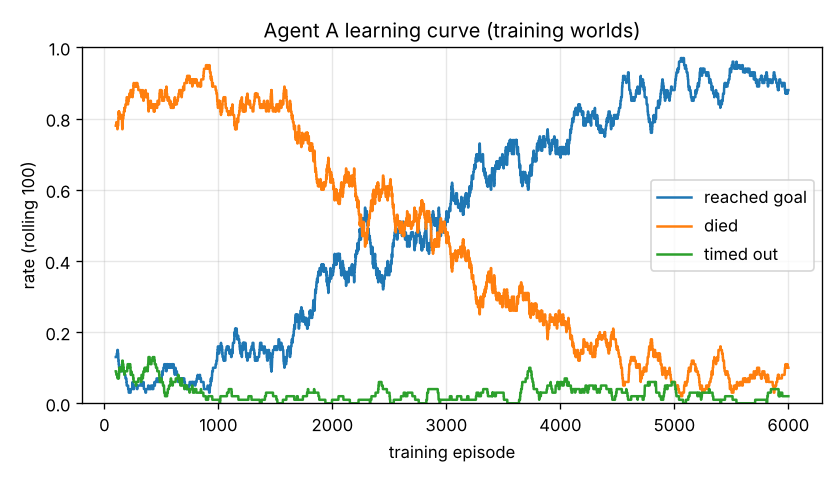
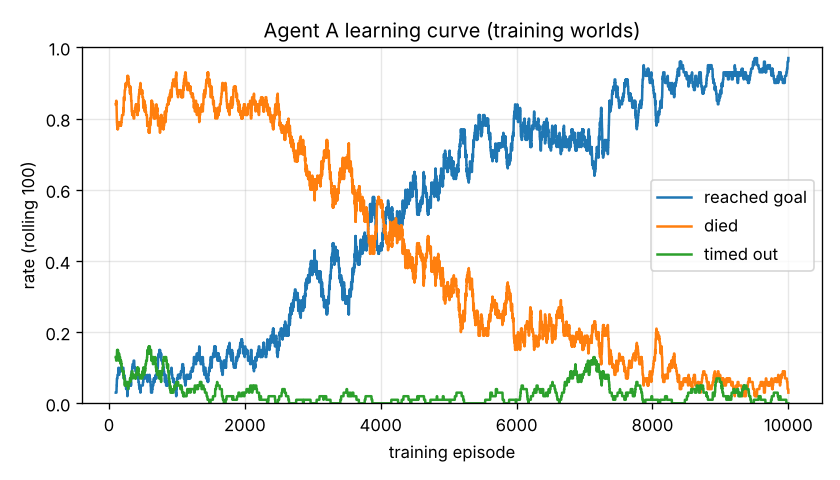
exp: re-run Level 1 baselines with stuck sense on; update every number
Learner 94.1% success in training rooms (was 90.7% from one lucky run).
New hot tiles: no help and memory of past killers both 57.5% success /
42.4% deaths; perfect knowledge 97.8% success, 0% deaths, 2.2% stuck
(was 7.4%). Difficulty sweep: 13.8% -> 74.7% deaths for 1 -> 6 hot tiles.
Figures, tables, README, Lab, paper, plain-language write-up, tracker and
plan updated; older numbers kept as history in the tracker.

diff --git a/lab.py b/lab.py
@@ -126,9 +126,9 @@ a painting of a fire). Can the rules protect it without making it afraid of the 
 | Got stuck | Ran out of time (100 steps) without reaching the goal |
 | Seed | A fixed random setting, so a test can be repeated exactly |
 
-**Measured so far** (10 seeds × 100 episodes, rooms with new dangers): no help → 41% die ·
-memory of past killers → 41% die (no help on new tiles) · perfect knowledge → 0% die,
-93% reach the goal. AI results: pending.
+**Measured so far** (10 seeds × 100 episodes, rooms with new dangers): no help → 42% die ·
+memory of past killers → 42% die (no help on new tiles) · perfect knowledge → 0% die,
+98% reach the goal. AI results: pending.
 
 **How to use:** set the knobs on the left → tab 1 *Train* → tab 2 *Watch* an episode →
 tab 3 *Compare* shields → tab 4 *Sweep* a knob. LLM shields use **Groq** (free; needs `GROQ_API_KEY`); the

diff --git a/conclusion/level_1/paper.md b/conclusion/level_1/paper.md
@@ -10,10 +10,10 @@ they have not met. We study whether a language model, reading a reinforcement-le
 agent's sparse failure log, can write rules that protect a *novice* agent against
 **held-out** hazards while sparing **look-alike decoys**. In a MiniGrid room with a
 natural-language tile layer, a tabular Q-learning agent trained on three hot tiles
-reaches the goal in 90.7% of training episodes but dies in 41.1% [39.0, 43.6] of test
+reaches the goal in 94.1% of training episodes but dies in 42.4% [39.4, 45.3] of test
 episodes containing only unseen hot tiles. An exact-match lookup of past killers gives
 no protection (identical to no shield), while an oracle shield removes all deaths and
-raises success from 57.4% to 92.6%. **[PENDING]** Results for embedding retrieval and
+raises success from 57.5% to 97.8%. **[PENDING]** Results for embedding retrieval and
 for LLM shields with and without experience.
 
 ## 1. Introduction
@@ -30,7 +30,9 @@ Contributions of this level:
 1. A text-layer gridworld with hidden danger categories, held-out hazards and decoys,
    in which a lookup of past failures provably cannot succeed.
 2. A paired evaluation protocol comparing six shields from "none" to "oracle".
-3. Baselines bounding the achievable improvement (57.4% → 92.6% success).
+3. Baselines bounding the achievable improvement (57.5% → 97.8% success).
+5. A stuck-sense signal that makes the learner reliable across training runs
+   (getting stuck with a perfect shield: 23.4% ± 15.9% → 6.0% ± 3.2% over 5 training runs).
 4. **[PENDING]** The measured position of LLM- and embedding-based shields within that bound.
 
 ## 2. Related Work
@@ -64,10 +66,11 @@ Observation: the names of the front, left and right cells and a goal compass
 
 ### 3.2 Learner (Agent A)
 
-Tabular Q-learning (α = 0.2, γ = 0.95, ε linearly 1.0 → 0.05 over 70% of 6 000
+Tabular Q-learning (α = 0.2, γ = 0.95, ε linearly 1.0 → 0.05 over 70% of 10 000
 episodes). State = (front cell name, kind of left/right cell ∈ {wall, open, tile}, goal
-direction, previous action). The previous action removes left–right oscillation
-(without it ~40% of episodes time out).
+direction, previous action, stuck flag). The previous action removes left–right
+oscillation (without it ~40% of episodes time out); the stuck flag ("no change of cell
+for 3 steps") makes training reliable across seeds (see `results/level_1/tables/anti_stuck_5_training_seeds.md`).
 
 ### 3.3 Rule synthesis (sparse reflection)
 
@@ -95,23 +98,23 @@ encounters of decoys).
 
 ## 5. Results
 
-**Learner.** 90.7% [88.6, 92.6] success and 0.4% [0.0, 0.9] deaths in training worlds
+**Learner.** 94.1% [92.7, 95.6] success and 0.7% [0.3, 1.1] deaths in training worlds
 (`python -m research train`).
 
 **Novice in test worlds** (`python -m research evaluate`):
 
 | Shield | Success | Death | Hazards blocked | Decoys avoided |
 |---|---|---|---|---|
-| S0 none | 57.4% [55.1, 59.4] | 41.1% [39.0, 43.6] | 0% | 0% |
-| S1 lookup | 57.4% [55.1, 59.4] | 41.1% [39.0, 43.6] | 0% | 0% |
+| S0 none | 57.5% [54.5, 60.5] | 42.4% [39.4, 45.3] | 0% | 0% |
+| S1 lookup | 57.5% [54.5, 60.5] | 42.4% [39.4, 45.3] | 0% | 0% |
 | S2 embedding | **[PENDING]** | | | |
 | S3 LLM prior | **[PENDING]** | | | |
 | S4 LLM + experience | **[PENDING]** | | | |
-| S6 oracle | 92.6% [90.9, 94.4] | 0.0% [0.0, 0.0] | 100% | 0% |
+| S6 oracle | 97.8% [97.0, 98.6] | 0.0% [0.0, 0.0] | 100% | 0% |
 
 **Difficulty sweep** (`python -m research sweep --knob hazard_count --values 1,2,4,6`):
-deaths without a shield rise 15.9% → 28.8% → 54.5% → 74.6% for 1, 2, 4, 6 hazards; the
-oracle remains at 0% with success 98.7% → 74.3%.
+deaths without a shield rise 13.8% → 30.2% → 53.9% → 74.7% for 1, 2, 4, 6 hazards; the
+oracle remains at 0% with success 99.9% → 80.4%.
 
 | Hypothesis | Status |
 |---|---|
@@ -124,8 +127,8 @@ oracle remains at 0% with success 98.7% → 74.3%.
 
 The lookup result is by construction but important: it shows that the evaluation
 cannot be passed by memorising failures, which the v0 prototype's design could not rule
-out. The oracle gap (35 points of success, 41 points of deaths) is the room available to
-any semantic shield. Even a perfect shield leaves 7.4% time-outs, because the learner's
+out. The oracle gap (40 points of success, 42 points of deaths) is the room available to
+any semantic shield. Even a perfect shield leaves 2.2% time-outs, because the learner's
 policy was never trained with masked actions; a shield-aware learner is future work.
 
 ## 7. Limitations

diff --git a/conclusion/level_1/explained.md b/conclusion/level_1/explained.md
@@ -60,17 +60,17 @@ going to earn its place, it must handle things the agent has **not** experienced
 
 ## 5. What happened?
 
-**The learner learned.** After 6 000 training episodes it reaches the goal in 90.7% of
-training rooms and dies in only 0.4%. It learned to avoid red lava and hot coals.
+**The learner learned.** After 10 000 training episodes it reaches the goal in 94.1% of
+training rooms and dies in only 0.7%. It learned to avoid red lava and hot coals.
 
 **But it walks into new hot tiles.** In test rooms with never-seen hot tiles it dies in
-41.1% of episodes.
+42.4% of episodes.
 
 | Shield | Success | Deaths | Decoys wrongly avoided |
 |---|---|---|---|
-| S0 none | 57.4% | 41.1% | 0% |
-| S1 lookup | 57.4% | 41.1% | 0% |
-| S6 oracle | 92.6% | 0.0% | 0% |
+| S0 · No help | 57.5% | 42.4% | 0% |
+| S1 · Memory of past killers | 57.5% | 42.4% | 0% |
+| S6 · Perfect knowledge (cheat) | 97.8% | 0.0% | 0% |
 | S2 embedding | *not run yet* | | |
 | S3 LLM prior | *not run yet* | | |
 | S4 LLM + experience | *not run yet* | | |
@@ -78,11 +78,11 @@ training rooms and dies in only 0.4%. It learned to avoid red lava and hot coals
 | What we expected | What happened | Why |
 |---|---|---|
 | L1-H1: lookup won't help on new tiles | **Confirmed.** Lookup = no shield, to the decimal | It only knows tiles that killed the learner, and none of those appear in tests |
-| A good shield would help a lot | **Confirmed.** The oracle removes every death and adds 35 points of success | So the size of the prize for S3/S4 is known: somewhere between 57% and 93% success |
+| A good shield would help a lot | **Confirmed.** Perfect knowledge removes every death and adds 40 points of success | So the size of the prize for S3/S4 is known: somewhere between 57% and 98% success |
 | L1-H2 to H4 (about the LLM and embeddings) | **Not measured yet** | Needs the free Groq key, run on the Hugging Face Space or a laptop |
 
-**Harder rooms:** with more hot tiles, deaths without a shield climb from 16% (1 hot tile)
-to 75% (6 hot tiles); the oracle stays at 0% throughout.
+**Harder rooms:** with more hot tiles, deaths without a shield climb from 14% (1 hot tile)
+to 75% (6 hot tiles); with perfect knowledge it stays at 0% throughout.
 
 ## 6. What surprised us / what went wrong
 
@@ -93,7 +93,14 @@ to 75% (6 hot tiles); the oracle stays at 0% throughout.
 - **Lookup knew only 2 of 3 training hazards.** With a budget of 5 deaths, the learner
   happened to die on lava and coals but never on a campfire. Even "seen" knowledge is
   partial — a realistic situation for the LLM to deal with.
-- **A blocked agent can still get stuck.** With the oracle, 7.4% of episodes time out:
+- **The robot got stuck turning on the spot.** You noticed it in the Lab. With perfect
+  knowledge it timed out in 7.4% of episodes, and over 5 separate training runs the
+  average was even worse (23%). Giving it a "stuck sense" (I haven't moved for 3 steps)
+  fixed it: 6% on average, 2.2% in the main run. Your idea of an extra cost for walking
+  over its own path did not help on its own.
+- **One training run can be lucky.** The first learner scored 90.7%, but the average of five
+  runs was 71%. That is why results must be checked over several training runs.
+- **(Earlier note)** With the oracle, 7.4% of episodes timed out:
   when the way forward is blocked, the simple learner sometimes circles.
 - **Network limits.** This cloud session cannot reach Groq, OpenRouter or Hugging Face.
   So the LLM runs (free Groq, Llama 3.3 70B) happen on the Hugging Face Space or a
@@ -111,7 +118,7 @@ to 75% (6 hot tiles); the oracle stays at 0% throughout.
 | Shield | Filter that forbids unsafe moves | blocks "move forward" into lava |
 | Oracle | A cheating method that shows the best possible score | S6 |
 | Paired comparison | Every method gets the exact same test rooms and luck | all shields use the same seeds |
-| Confidence interval | Range where the true value probably is | 41.1% [39.0%, 43.6%] |
+| Confidence interval | Range where the true value probably is | 42.4% [39.4%, 45.3%] |
 | Sparse reflection | Calling the LLM rarely (once, after 5 deaths) | one reflection call per run |
 
 ## 8. What this means for the next level

diff --git a/results/level_1/tables/novice_non_llm_shields.md b/results/level_1/tables/novice_non_llm_shields.md
@@ -1,44 +1,36 @@
-# Novice in test worlds: shields that need no LLM (S0, S1, S6)
+# New robot in test worlds: shields that need no AI (S0, S1, S6)
 
-Same trained Agent A as the baseline; test worlds contain only never-seen hot tiles
-(molten rock, burning log pile, white-hot metal plate) and decoys. 10 seeds × 100
-episodes per shield, paired (same layouts and random draws for every shield);
-95% bootstrap CI over seeds.
+Same trained Agent A as the baseline (10 000 episodes, stuck sense on). Test worlds contain
+only NEW hot tiles (molten rock, burning log pile, white-hot metal plate) and harmless
+look-alikes. 10 seeds × 100 episodes per shield, paired (same layouts and random draws
+for every shield); 95% bootstrap CI over seeds.
 
-| Shield | Success | Death (all unseen hot tiles) | Hazards blocked | Decoys wrongly avoided |
-|---|---|---|---|---|
-| S0 none | 57.4% [55.1%, 59.4%] | 41.1% [39.0%, 43.6%] | 0% | 0% |
-| S1 lookup | 57.4% [55.1%, 59.4%] | 41.1% [39.0%, 43.6%] | 0% | 0% |
-| S6 oracle | 92.6% [90.9%, 94.4%] | 0.0% [0.0%, 0.0%] | 100% | 0% |
+| Shield | Reached goal | Died (on a new hot tile) | Got stuck (ran out of time) | Dangers blocked | False alarms (harmless tiles avoided) |
+|---|---|---|---|---|---|
+| S0 · No help | 57.5% [54.5%, 60.5%] | 42.4% [39.4%, 45.3%] | 0.1% [0.0%, 0.3%] | 0% | 0% |
+| S1 · Memory of past killers | 57.5% [54.5%, 60.5%] | 42.4% [39.4%, 45.3%] | 0.1% [0.0%, 0.3%] | 0% | 0% |
+| S6 · Perfect knowledge (cheat) | 97.8% [97.0%, 98.6%] | 0.0% [0.0%, 0.0%] | 2.2% [1.4%, 3.0%] | 100% | 0% |
 
-- **S1 lookup = S0 none, exactly.** Remembering the exact tiles that killed the learner
-  gives zero protection on tiles it never met (hypothesis L1-H1: supported).
-- **S6 oracle** removes every death and lifts success from 57% to 93%: a shield with
-  correct judgements is worth ~35 points of success. The LLM shields (S3, S4) will be
-  placed between these two rows once they are run.
-- No shield here avoided a decoy; decoy false-avoidance becomes meaningful for S2–S4.
-
-Reproduce:
+- **Memory of past killers (S1) = No help (S0), exactly.** Remembering the exact tiles that
+  killed the learner gives zero protection on tiles it never met (hypothesis L1-H1: supported).
+- **Perfect knowledge (S6)** removes every death and lifts reaching the goal from 57.5% to
+  97.8%: a shield with correct judgement is worth ~40 points. The AI shields (S3, S4) will
+  land between these rows.
+- Nobody avoided a look-alike here; false alarms become meaningful for S2–S4.
 
 ```bash
 python -m research evaluate --shields none,lookup,oracle
 ```
 
-## Difficulty sweep (hazards per room)
+## Difficulty sweep (hot tiles per room)
 
-| hazards per room | S0 none death | S1 lookup death | S6 oracle death | S0 success | S6 success |
+| Hot tiles per room | No help: died | Memory of past killers: died | Perfect knowledge: died | No help: reached goal | Perfect knowledge: reached goal |
 |---|---|---|---|---|---|
-| 1 | 15.9% | 15.9% | 0.0% | 83.2% | 98.7% |
-| 2 | 28.8% | 28.8% | 0.0% | 69.9% | 96.5% |
-| 4 | 54.5% | 54.5% | 0.0% | 44.3% | 87.2% |
-| 6 | 74.6% | 74.6% | 0.0% | 24.3% | 74.3% |
-
-Deaths without a shield grow with the number of hot tiles; the oracle stays at 0%.
+| 1 | 13.8% | 13.8% | 0.0% | 86.1% | 99.9% |
+| 2 | 30.2% | 30.2% | 0.0% | 69.7% | 99.4% |
+| 4 | 53.9% | 53.9% | 0.0% | 45.7% | 93.4% |
+| 6 | 74.7% | 74.7% | 0.0% | 24.9% | 80.4% |
 
 ```bash
 python -m research sweep --knob hazard_count --values 1,2,4,6 --shields none,lookup,oracle
 ```
-
-Note: the `train` command's own evaluation (`baseline_no_shield.md`, 39.9% deaths) used the
-training RNG for tie-breaks; `evaluate` resets it so shields are compared on identical draws
-(41.1%). The two confidence intervals overlap.

diff --git a/results/level_1/tables/baseline_no_shield.md b/results/level_1/tables/baseline_no_shield.md
@@ -1,21 +1,25 @@
 # Baseline: Agent A with no shield (S0)
 
-Agent A trained by tabular Q-learning for 6 000 episodes in training worlds, then
-evaluated greedily over 10 seeds × 100 fresh layouts per split (95% bootstrap CI over seeds).
+Agent A trained by tabular Q-learning for 10 000 episodes in training worlds (stuck sense
+on), then evaluated greedily over 10 seeds × 100 fresh layouts per split (95% bootstrap
+CI over seeds).
 
-| Worlds | Success | Death | Time-out |
+| Worlds | Reached goal | Died | Got stuck |
 |---|---|---|---|
-| Training worlds (seen hot tiles + plain ground) | 90.7% [88.6%, 92.6%] | 0.4% [0.0%, 0.9%] | 8.9% [7.2%, 10.8%] |
-| Test worlds (never-seen hot tiles + decoys) | 59.1% [57.2%, 61.0%] | 39.9% [38.3%, 41.6%] | 1.0% [0.4%, 1.6%] |
+| Training worlds (known hot tiles + plain floor) | 94.1% [92.7%, 95.6%] | 0.7% [0.3%, 1.1%] | 5.2% [3.9%, 6.6%] |
+| Test worlds (NEW hot tiles + look-alikes) | 57.5% [54.5%, 60.5%] | 42.4% [39.4%, 45.3%] | 0.1% [0.0%, 0.3%] |
 
-Deaths in test worlds by tile (1 000 episodes): molten rock: 153, white-hot metal plate: 133, burning log pile: 113.
-No decoy ever killed the agent (decoys are harmless by design).
+Deaths in test worlds by tile (1 000 episodes): molten rock: 147, white-hot metal plate: 143, burning log pile: 134. No look-alike ever killed the agent
+(they are harmless by design).
 
-**Reading:** the learner avoids hot tiles it has met (0.4% deaths), but walks into
-never-seen hot tiles in ~40% of test episodes. This is the gap the LLM rules must close.
+**Reading:** the learner avoids the hot tiles it has met, but walks into NEW hot tiles in
+~42% of test episodes. This is the gap the AI rules must close.
 
-Reproduce (code from the L1.5 commit onward; deterministic for a given seed):
+Reproduce:
 
 ```bash
-python -m research train --config configs/level1.yaml
+python -m research train
 ```
+
+History: before stuck sense was switched on (6 000 episodes, one training run) the same
+table read 90.7% / 39.9%; see `anti_stuck_5_training_seeds.md` for why it changed.

diff --git a/future_plan/tracker.md b/future_plan/tracker.md
@@ -38,8 +38,9 @@ Legend: ⬜ not started · 💬 discussing · 🟨 building · ✅ done
 *(Written at the end of each level: what was learned, what changes for the next level.)*
 
 **Level 1 to Level 2 (partial handover, 2026-10-30).** Everything is built and tested.
-Measured: learner 90.7% success in training worlds; on never-seen hot tiles, no shield
-and exact lookup both give 41.1% deaths; oracle 0% deaths, 92.6% success.
+Measured (stuck sense on, 10 000 episodes): learner 94.1% success in training worlds; on
+never-seen hot tiles, no shield and exact lookup both give 42.4% deaths; oracle 0% deaths,
+97.8% success, 2.2% stuck. Older numbers below are kept as history.
 **Still open:** run S3/S4 (LLM) with Groq (Llama 3.3 70B). Groq is reachable from the
 Hugging Face Space (add `GROQ_API_KEY` as a Space secret, run *Compare shields* with
 6000/10/100 and download the JSON) or from a laptop/Colab (`python -m research evaluate`).

diff --git a/README.md b/README.md
@@ -136,13 +136,13 @@ Novice agent in rooms with **never-seen** hot tiles (10 seeds × 100 episodes, 9
 
 | Shield | Reached goal | Died |
 |---|---|---|
-| S0 · No help | 57.4% | 41.1% |
-| S1 · Memory of past killers | 57.4% | 41.1% |
-| S6 · Perfect knowledge (cheat) | 92.6% | 0.0% |
+| S0 · No help | 57.5% | 42.4% |
+| S1 · Memory of past killers | 57.5% | 42.4% |
+| S6 · Perfect knowledge (cheat) | 97.8% | 0.0% |
 | LLM shields (Groq, Llama 3.3 70B) | *pending: run on the Space once the Groq key is set* | |
 
 Remembering exact failures gives **no** protection on new hazards; a shield with good
-judgement is worth ~35 points of success. Details: [results/level_1/tables](results/level_1/tables/).
+judgement is worth ~40 points of success. Details: [results/level_1/tables](results/level_1/tables/).
 
 ## 📁 Repository map
 

diff --git a/future_plan/future.md b/future_plan/future.md
@@ -222,7 +222,8 @@ dangerous") is wrong in this world, and only grounded experience can correct it.
 
 ### 2.2 What Level 1 taught us (inputs to this design)
 
-- Exact lookup cannot transfer at all; the oracle bounds the gain at ~35 points of success.
+- Exact lookup cannot transfer at all; the oracle bounds the gain at ~40 points of success.
+- One training run can be lucky: report results over several training seeds (anti-stuck test).
 - A blocked learner times out ~7% of the time; report time-outs separately.
 - The experience budget matters: with 5 deaths the learner never died on a campfire.
   Level 2 sweeps the budget per category.
